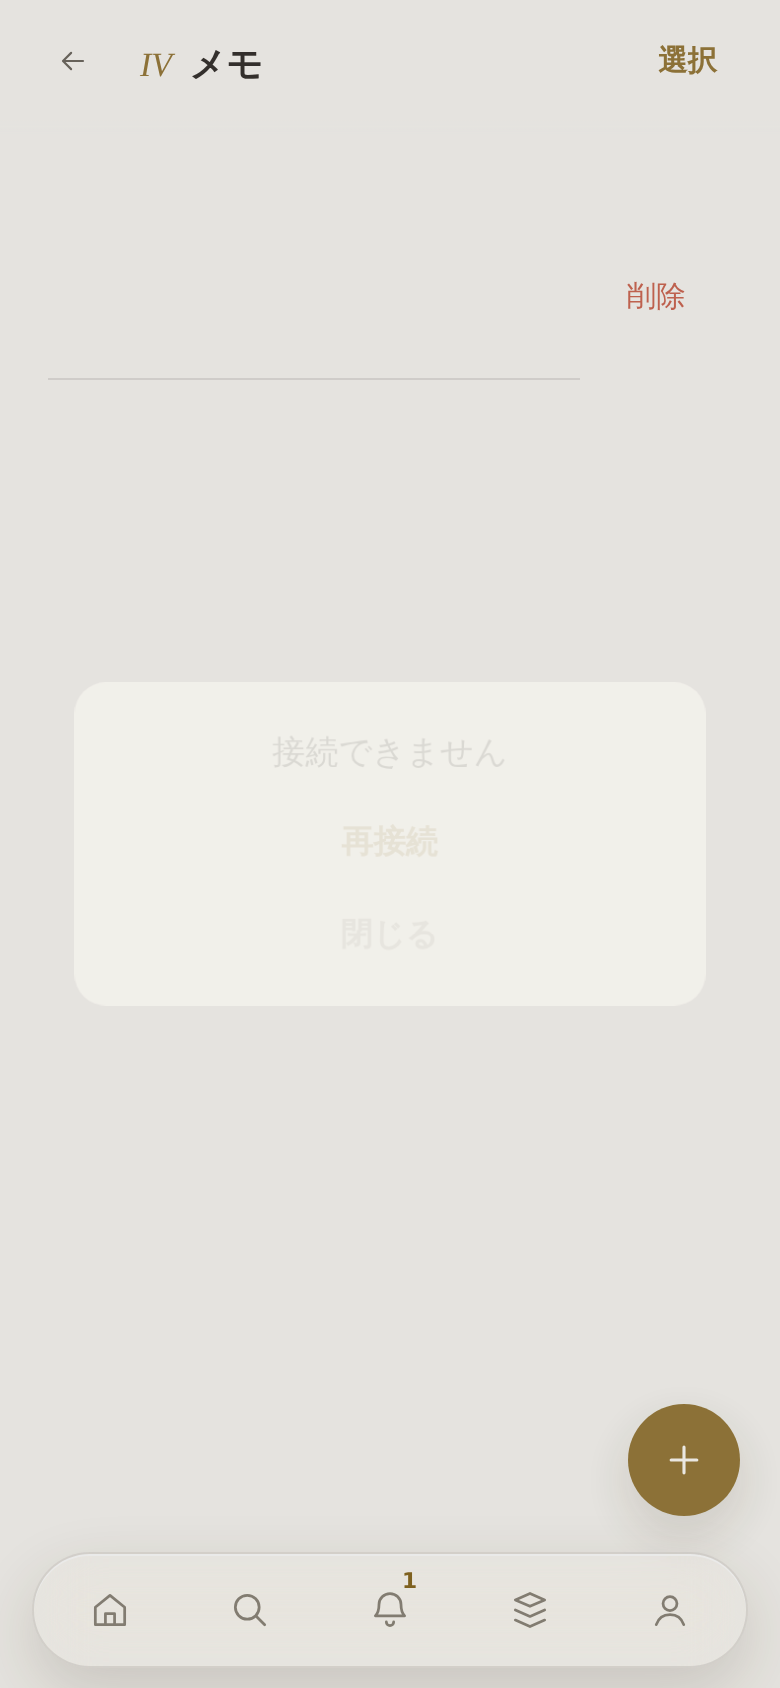
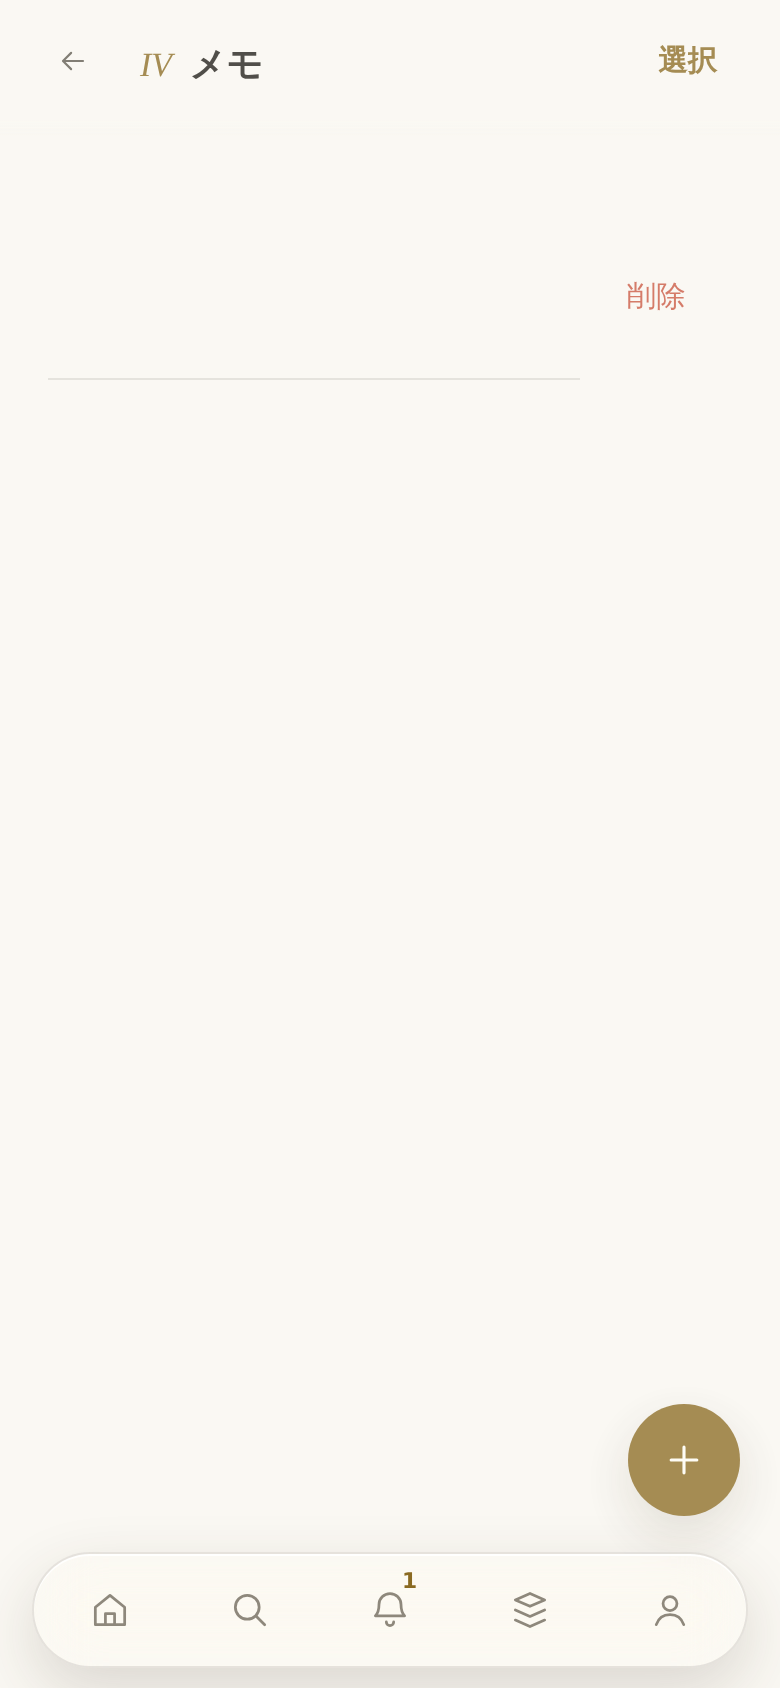
メモ: 左で出した削除を、右に払って閉じる

diff --git a/www/notes.js b/www/notes.js
@@ -168,6 +168,12 @@ function ntSwMove(e){
     /* A thumb heading down the page is the list scrolling, and a small
        wobble either way is still a tap on the row -- neither is this. */
     if(Math.abs(dy)>Math.abs(dx)) { ntSwOn=false; return; }
+    /* 左で出したものは右で戻る ── 開いている行を右に払えば閉じる。
+       閉じるのは一瞬で、指について動くのは開く側だけ ── render() で行は
+       作り直されるので ntSwEl はもうその行ではない。だからここで終わる。 */
+    if(dx>=12 && ntSwipeAt>=0 && ntSwipeAt===ntSwI){
+      ntSwOn=false; ntSwipeAt=-1; render(); return;
+    }
     if(dx>-12) return;
     ntSwLive=true;
     if(ntSwipeAt>=0 && ntSwipeAt!==ntSwI){ ntSwipeAt=-1; render(); }
